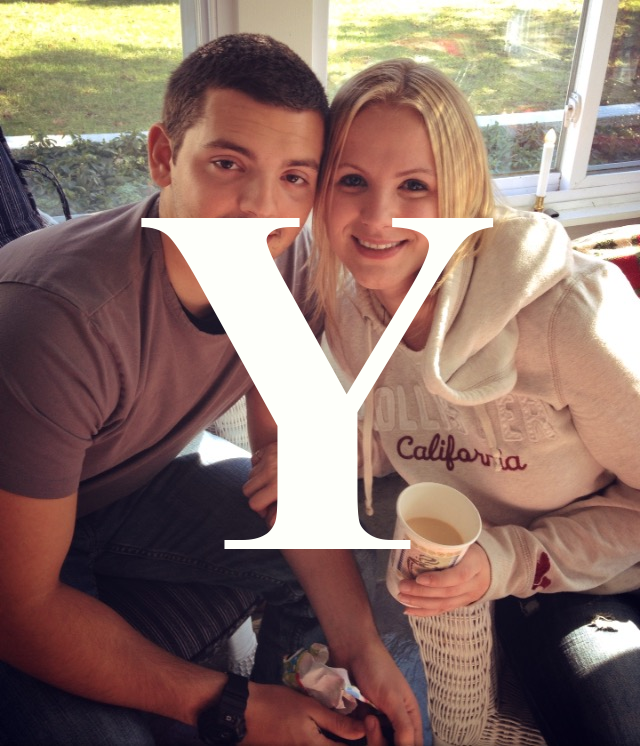
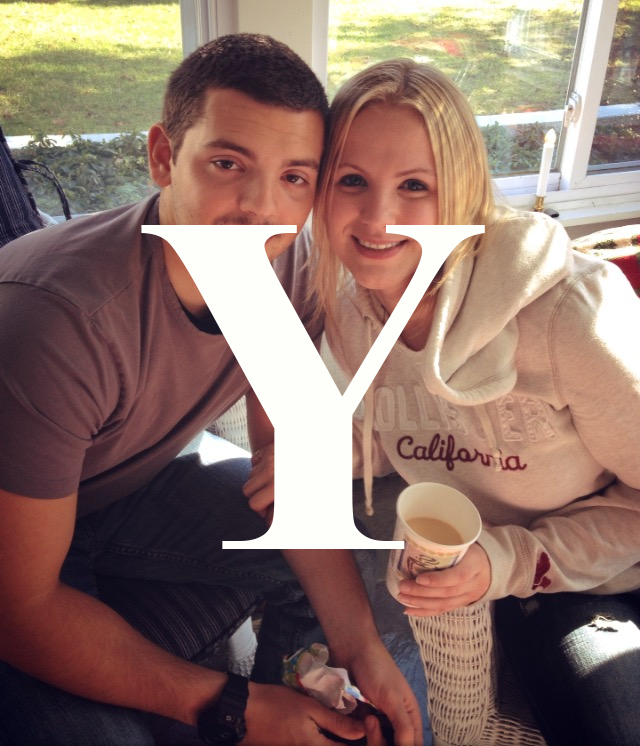
Finished onmouseover changes to home.html

diff --git a/app/templates/home.html b/app/templates/home.html
@@ -9,22 +9,22 @@
 
         <img src="{{ url_for('static', filename='img/MeAndKelly3.jpeg', _external=True) }}" class="img-rounded" width=23% height=auto alt="MeAndKelly3" onmouseover="this.src='{{ url_for('static', filename='img/MeAndKelly3-edit.png') }}';"/>
 
-            <img src="{{ url_for('static', filename='img/DogsFireplace.jpeg', _external=True) }}" class="img-rounded" width=20% height=auto alt="DogsFireplace"/>
+        <img src="{{ url_for('static', filename='img/DogsFireplace.jpeg', _external=True) }}" class="img-rounded" width=20% height=auto alt="DogsFireplace" onmouseover="this.src='{{ url_for('static', filename='img/DogsFireplace-edit.png') }}';"/>
 
-            <img src="{{ url_for('static', filename='img/Pig3.png', _external=True) }}" class="img-rounded" width=15% height=auto alt="Pig3"/>
+        <img src="{{ url_for('static', filename='img/Pig3.png', _external=True) }}" class="img-rounded" width=15% height=auto alt="MeAndKelly" onmouseover="this.src='{{ url_for('static', filename='img/Pig3-edit.png') }}';"/>
 
     </div>
 
     <div class="row topbuffer homerow">
-            <img src="{{ url_for('static', filename='img/KellyAndDogs.jpeg', _external=True) }}" class="img-rounded" width=20% height=auto alt="Kelly and Dogs"/>
+            <img src="{{ url_for('static', filename='img/KellyAndDogs.jpeg', _external=True) }}" class="img-rounded" width=20% height=auto alt="Kelly and Dogs" onmouseover="this.src='{{ url_for('static', filename='img/KellyAndDogs-edit.png') }}';"/>
 
-            <img src="{{ url_for('static', filename='img/MeAndKelly2.jpg', _external=True) }}" class="img-rounded" width=15% height=auto />
+            <img src="{{ url_for('static', filename='img/MeAndKelly2.jpg', _external=True) }}" class="img-rounded" width=15% height=auto onmouseover="this.src='{{ url_for('static', filename='img/MeAndKelly2-edit.png') }}';"/>
 
-            <img src="{{ url_for('static', filename='img/Wedding.jpg', _external=True) }}" class="img-rounded" width=23% height=auto alt="Wedding"/>
+            <img src="{{ url_for('static', filename='img/Wedding.jpg', _external=True) }}" class="img-rounded" width=23% height=auto alt="Wedding" onmouseover="this.src='{{ url_for('static', filename='img/Wedding-edit.png') }}';"/>
 
-            <img src="{{ url_for('static', filename='img/MeAndKelly4.png', _external=True) }}" class="img-rounded" width=20% height=auto alt="MeAndKelly4"/>
+            <img src="{{ url_for('static', filename='img/MeAndKelly4.png', _external=True) }}" class="img-rounded" width=20% height=auto alt="MeAndKelly4" onmouseover="this.src='{{ url_for('static', filename='img/MeAndKelly4-edit.png') }}';"/>
 
-            <img src="{{ url_for('static', filename='img/MeUnderPier.jpg', _external=True) }}" class="img-rounded" width=15% height=auto alt="MeUnderPier"/>
+            <img src="{{ url_for('static', filename='img/MeUnderPier.jpg', _external=True) }}" class="img-rounded" width=15% height=auto alt="MeUnderPier" onmouseover="this.src='{{ url_for('static', filename='img/MeUnderPier-edit.png') }}';"/>
     </div>
 </div>
 {% endblock %}
